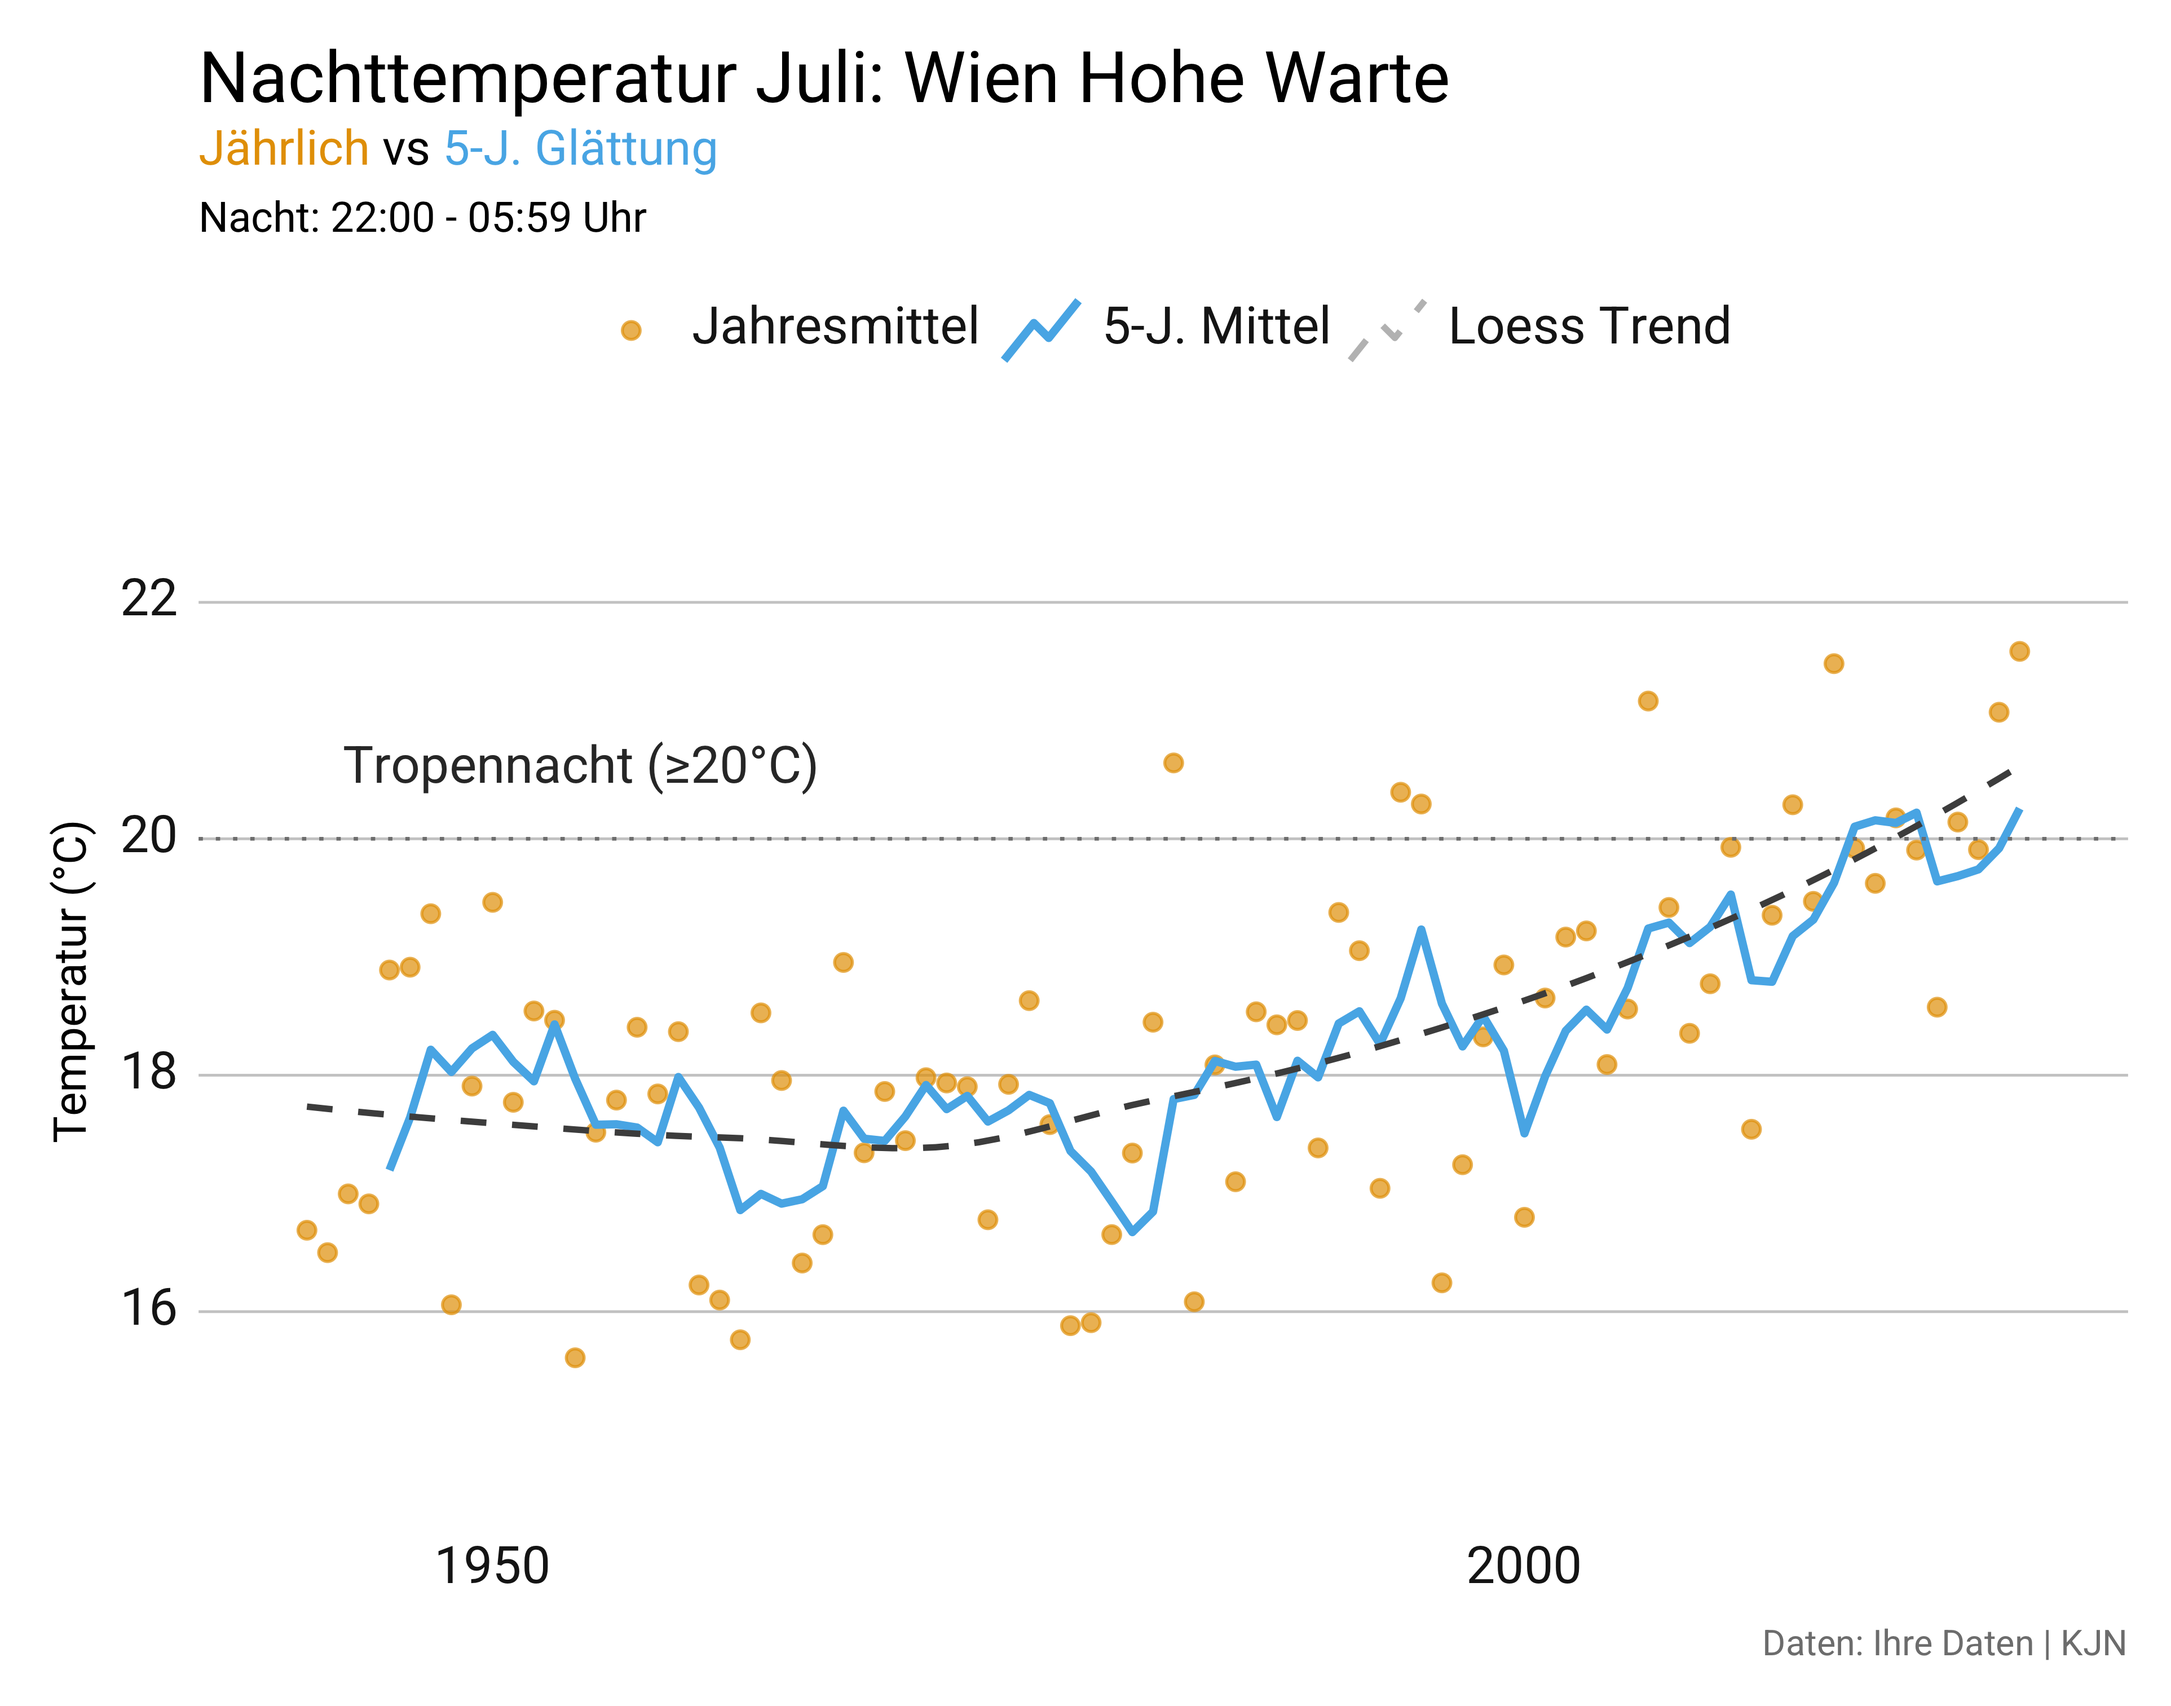
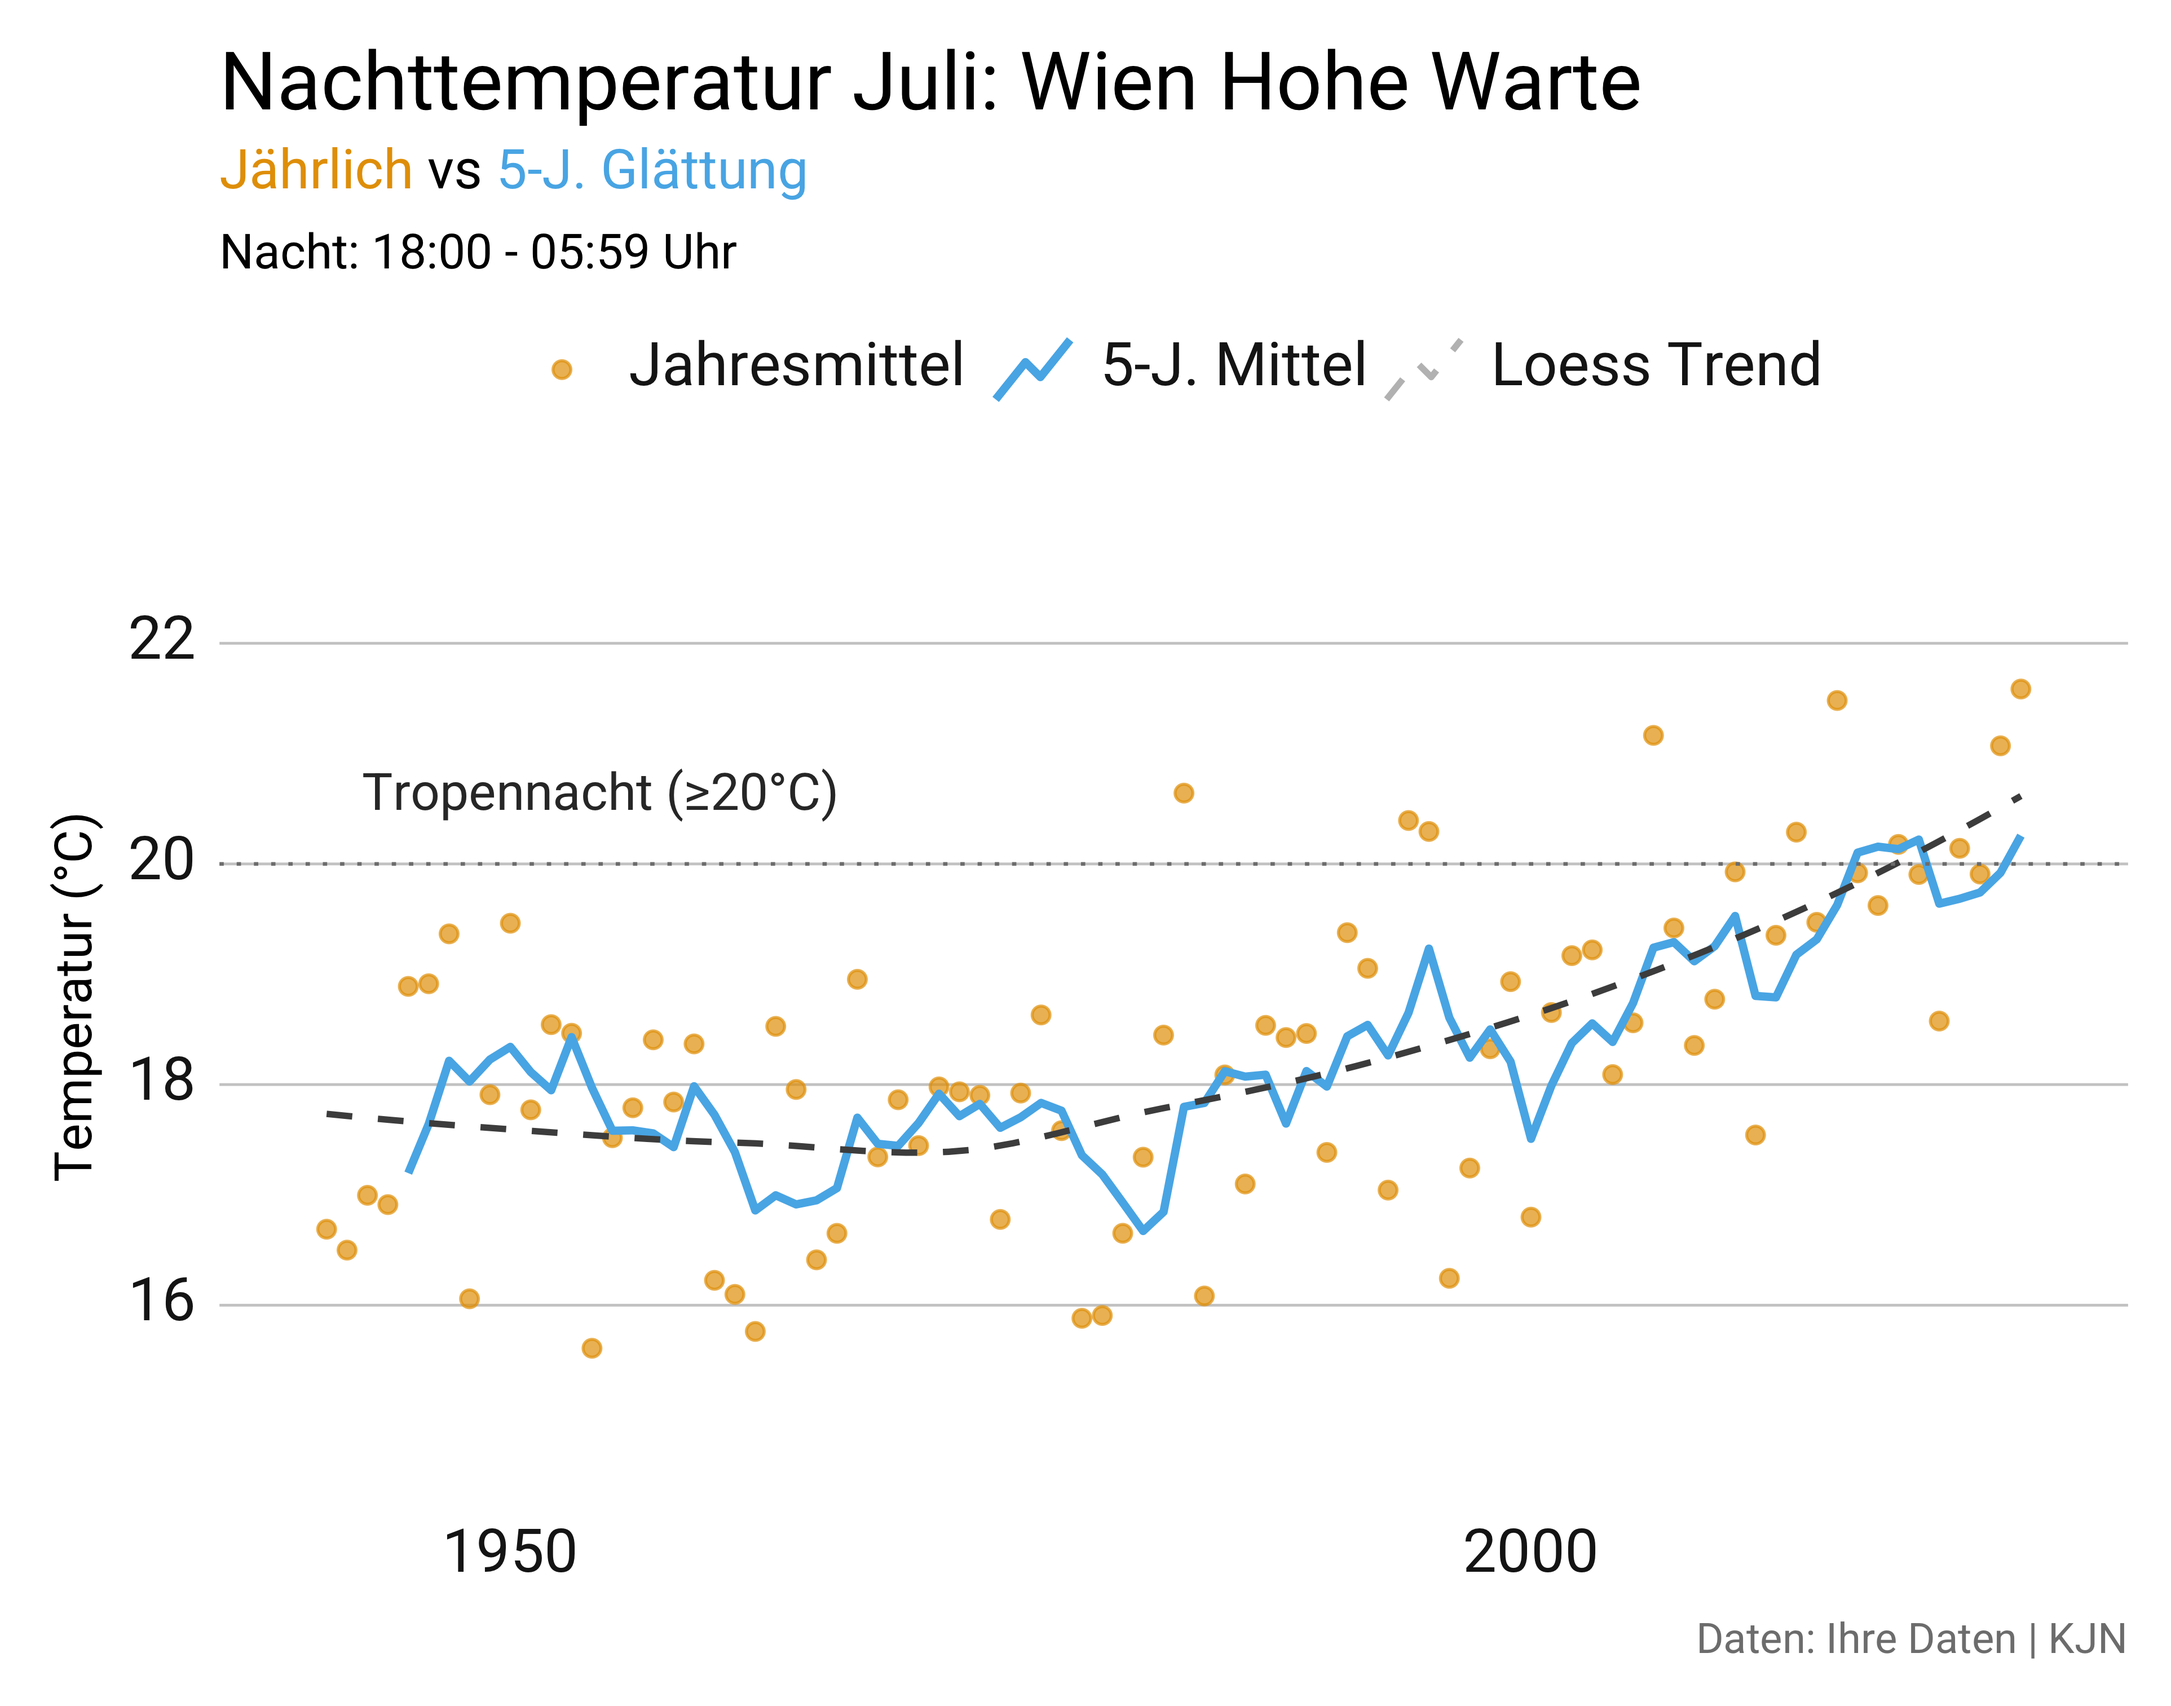
...

diff --git a/wiki/_site/climate-analyses/kjn_tropennächte.html b/wiki/_site/climate-analyses/kjn_tropennächte.html
@@ -126,6 +126,7 @@ ul.task-list li input[type="checkbox"] {
    
   <ul>
   <li><a href="#mobile" id="toc-mobile" class="nav-link active" data-scroll-target="#mobile">Mobile</a></li>
+  <li><a href="#desktop" id="toc-desktop" class="nav-link" data-scroll-target="#desktop">Desktop</a></li>
   </ul>
 </nav>
 </nav>
@@ -169,7 +170,15 @@ ul.task-list li input[type="checkbox"] {
 
 <section id="mobile" class="level2">
 <h2 class="anchored" data-anchor-id="mobile">Mobile</h2>
-<p><img src="images/tropennächte/mobile.png" class="img-fluid" alt="mobile"> ## Desktop</p>
+<div class="quarto-figure quarto-figure-center">
+<figure class="figure">
+<p><img src="images/tropennächte/mobile.png" class="img-fluid figure-img"></p>
+<figcaption>mobile</figcaption>
+</figure>
+</div>
+</section>
+<section id="desktop" class="level2">
+<h2 class="anchored" data-anchor-id="desktop">Desktop</h2>
 <div class="quarto-figure quarto-figure-center">
 <figure class="figure">
 <p><img src="images/tropennächte/desktop.png" class="img-fluid figure-img"></p>

diff --git a/wiki/_site/climate_analyses.html b/wiki/_site/climate_analyses.html
@@ -217,7 +217,7 @@ window.Quarto = {
     </div>
 </div>
 <div class="list grid quarto-listing-cols-3">
-<div class="g-col-1" data-index="0" data-listing-date-sort="1745704800000" data-listing-file-modified-sort="1748205744078" data-listing-date-modified-sort="NaN" data-listing-reading-time-sort="1" data-listing-word-count-sort="2">
+<div class="g-col-1" data-index="0" data-listing-date-sort="1745704800000" data-listing-file-modified-sort="1748205882946" data-listing-date-modified-sort="NaN" data-listing-reading-time-sort="1" data-listing-word-count-sort="2">
 <a href="./climate-analyses/kjn_tropennächte.html" class="quarto-grid-link">
 <div class="quarto-grid-item card h-100 card-left">
 <div class="card-body post-contents">
